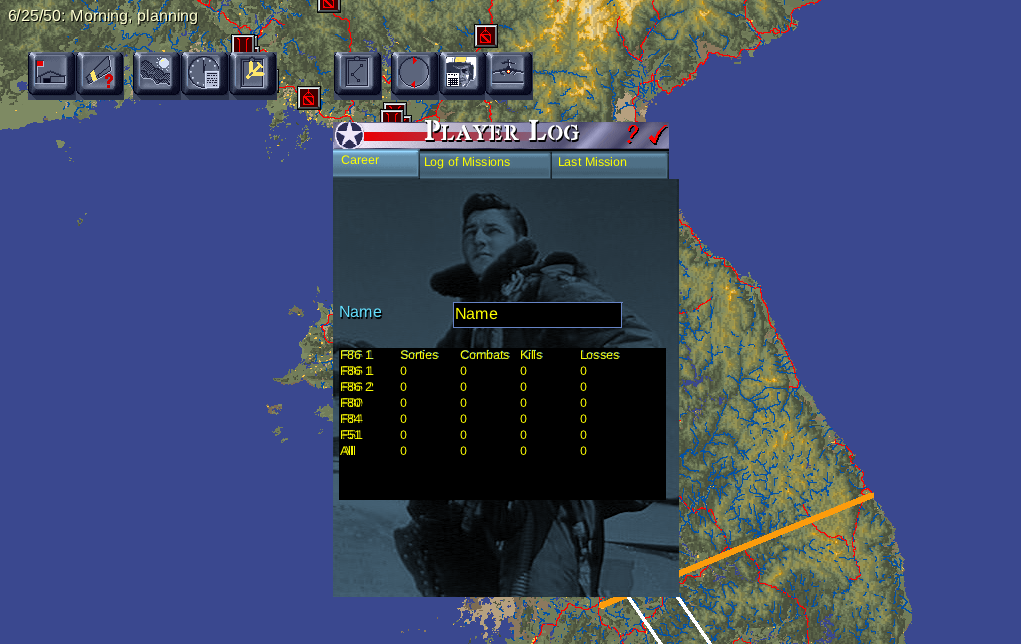
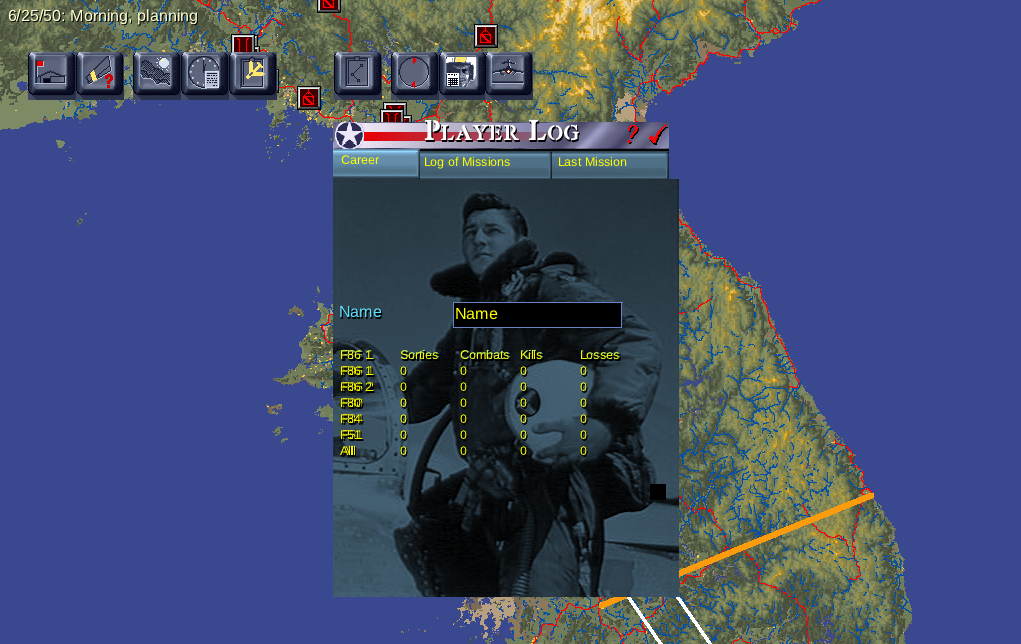
Sprint 71 'Polish the chrome' -- CLOSED 6/6; EPIC I front-end 2D parity essentially complete
S71-1 OOB-listbox translucency (the S70 residual):
- S70 found that skipping the CRListBoxCtrl black fill globally erased the front-end
  title menu (the menu is the same control and relies on the opaque box). Added a
  context flag ma_oob_lb_draw (defined in ma_olecontrol.cpp, read in RLISTBXC.CPP),
  set to 1 only while ma_ole_draw_toolbar draws an OOB-path listbox. OnDraw skips the
  fill when set -> the Player Log Career/Log tables composite over the dialog art (the
  pilot photo shows through = gold's translucency), while the front-end path (ma_ole_
  draw_all) never sets it and stays byte-identical (title 0 px).

S71-2 combo border pen colour -- MEASURED, no fix needed:
- AXC_DARKEDGE == AXC_LITEDGE == AXC_CIRCULARCOMBOBOXCOLOR == RGB(103,132,198) (blue)
  and m_bCircularStyle is FALSE always, so native already draws the same blue
  rectangular border + round button as gold; a matched-scale crop confirms it. The
  S69 "rectangular-white" residual was the anti-aliased blue edge at 800-res. Retired,
  not fixed (an S64-style measure-don't-assume close). Cross-cutting #2 fully matched.

Cross-port note 28 (the OOB-only context-flag technique + the residual that measured away).

Gates: front-end 2D parity byte-identical sweep PASSES (title/prefs_3d/prefs_others/
quickmission/campaign_map 0px); playerlog refs rebased for the translucent tables.
ASan PASS 4/4 paths 0 reports. Stress 20/20 OK under gl-lock.

Changed region(s): [[0.334, 0.528, 0.668, 0.7764]]

diff --git a/SRC/compat/ma_olecontrol.cpp b/SRC/compat/ma_olecontrol.cpp
@@ -30,6 +30,11 @@ extern const WORD _wVerMinor = 0x3;
    types are recorded but not instantiated, so their InvokeHelper/Get/SetProperty calls
    no-op instead of being mis-routed to a listbox (which corrupted state / hung nav). */
 enum { CT_NONE = 0, CT_LISTBOX, CT_STATIC, CT_BUTTON, CT_COMBO, CT_EDIT, CT_EDTBT, CT_TABS, CT_OTHER };
+/* S71: set to 1 only while an OOB-path listbox (Player Log tables) is being drawn, so
+   CRListBoxCtrl::OnDraw skips its opaque black box fill and lets the composited dialog
+   background show through (gold's translucency). The front-end menu/prefs listboxes never set
+   it, so they keep the opaque box they rely on. Read from RLISTBXC.CPP. */
+extern "C" { int ma_oob_lb_draw = 0; }
 /* `relative`: control was positioned from the RT_DIALOG template (client-relative to its
    dialog) -> add the parent's screen origin when drawing. Game-positioned controls (the
    menu listbox via PositionRListBox) use absolute screen coords -> no parent add. */
@@ -660,7 +665,15 @@ extern "C" void ma_ole_draw_toolbar(void* dialog, void* screenHdc, int ox, int o
             int lox = 0, loy = 0;
             ma_gdi_set_viewport_org(screenHdc, cx, cy, &lox, &loy);
             CRect lbounds(0, 0, w, hh);
+            /* S71 (parity #15 chrome): OOB listboxes (the Player Log tables) composite over the
+               dialog's already-painted background, so their opaque black fill hid gold's
+               translucent look. This flag tells CRListBoxCtrl::OnDraw to skip the box fill on
+               the OOB path ONLY — the front-end menu/prefs listboxes (drawn via ma_ole_draw_all,
+               which never sets this) keep the opaque box they rely on (S70 regression when it
+               was skipped globally). */
+            ma_oob_lb_draw = 1;
             c->OnDraw(&dc, lbounds, lbounds);
+            ma_oob_lb_draw = 0;
             ma_gdi_set_viewport_org(screenHdc, lox, loy, 0, 0);
         }
     }

diff --git a/SRC/RLISTBOX/RLISTBXC.CPP b/SRC/RLISTBOX/RLISTBXC.CPP
@@ -388,6 +388,10 @@ CRListBoxCtrl::~CRListBoxCtrl()
 /////////////////////////////////////////////////////////////////////////////
 // CRListBoxCtrl::OnDraw - Drawing function
 
+#if defined(MA_LINUX)
+extern "C" int ma_oob_lb_draw;   /* S71: 1 while an OOB-path listbox is drawn (ma_olecontrol.cpp) */
+#endif
+
 void CRListBoxCtrl::OnDraw(
 			CDC* pdc, const CRect& rcBounds, const CRect& rcInvalid)
 {
@@ -485,13 +489,17 @@ void CRListBoxCtrl::OnDraw(
 			}
 			X2flag=parent->SendMessage(WM_GETX2FLAG,NULL,NULL);
 		}
-		/* S70 note: unlike the combo (RCOMBOC.CPP, S69), the listbox black fill is LOAD-BEARING
-		   for the FRONT-END menu/prefs listboxes (skipping it globally erased the title menu —
-		   they rely on the opaque box). Gold's Player Log Career/Log-of-Missions tables show the
-		   photo through a TRANSLUCENT box, so the OOB tables read as opaque here — a named
-		   residual (listbox chrome). Fixing it needs a context flag to skip the fill on the OOB
-		   path only, without touching the absolute-positioned front-end listboxes. */
+		/* S70/S71: the listbox black fill is LOAD-BEARING for the FRONT-END menu/prefs listboxes
+		   (skipping it globally erased the title menu — they rely on the opaque box). But gold's
+		   Player Log Career/Log-of-Missions tables show the photo through a TRANSLUCENT box. S71
+		   resolves both: ma_oob_lb_draw (set only while ma_ole_draw_toolbar draws an OOB-path
+		   listbox) skips the fill so the composited dialog art shows through; the front-end path
+		   never sets it, so those listboxes keep the opaque box. */
+#if defined(MA_LINUX)
+		if (!ma_oob_lb_draw && (!artnum && m_FirstSweep != TRUE || !m_hWnd))
+#else
 		if (!artnum && m_FirstSweep != TRUE || !m_hWnd)
+#endif
 		{
 			pOffScreenDC->FillRect(rcBounds, CBrush::FromHandle((HBRUSH)GetStockObject(BLACK_BRUSH)));
 		}

diff --git a/scrum.md b/scrum.md
@@ -167,6 +167,57 @@ Each release is a usable product; the train can stop at any release boundary and
 
 ## 5. Sprint Plan (rolling)
 
+### 🏃 Sprint 71 — "Polish the chrome" — ✅ CLOSED 2026-08-02 (6/6 pts, goal MET)
+
+**Sprint Review (PO pre-approved ceremony, logged 2026-08-02):** detail in
+`port/scrum/sprint-71.md`. **Both S70/S69 chrome residuals resolved — one fixed, one measured
+away.** The front-end 2D parity epic (EPIC I) is now essentially complete.
+
+- **S71-1 — the OOB-listbox translucency, fixed with an OOB-only context flag.** S70 established
+  that skipping the `CRListBoxCtrl` black fill globally erased the front-end title menu (the
+  menu is the same control and relies on the opaque box). Added `ma_oob_lb_draw` (defined in
+  `ma_olecontrol.cpp`, read in `RLISTBXC.CPP`), set to 1 only while `ma_ole_draw_toolbar` draws
+  an OOB-path listbox → the fill is skipped there so the Player Log Career/Log tables composite
+  over the dialog background (the pilot photo shows through = gold's translucency), while the
+  front-end path never sets it and stays **byte-identical** (title 0 px). Gold-matched.
+- **S71-2 — the combo border residual did not exist.** S69 named native's combo border
+  "rectangular light vs gold's rounded-blue". Measured: `AXC_DARKEDGE/LITEDGE/CIRCULAR =
+  RGB(103,132,198)` (blue) and `m_bCircularStyle=FALSE` always, so native and gold draw the
+  same blue rectangular border + round button; a matched-scale crop of native vs gold #2
+  confirms it. The "white" reading was the anti-aliased blue edge at 800-res. **Retired, not
+  fixed** — an S64-style "measure, don't assume" close. Cross-cutting #2 fully matched.
+- **S71-3 — cross-port note** (the OOB-only context-flag technique, completing note 27's
+  deferred fix) to `bob/doc/`.
+
+**Gates.** **Front-end 2D parity byte-identical sweep PASSES** — title / prefs_3d / prefs_others
+/ quickmission / campaign_map all 0 px (the flag only affects OOB listboxes); `map_playerlog` +
+`map_playerlog_tab1` rebased for the translucent tables. **ASan `asan_all.sh` PASS — 4/4 paths,
+0 reports. Stress `stress_launch.sh` under `gl-lock`: 20/20 OK.** Cross-port note 28.
+
+### Sprint 71 planning — "Polish the chrome" — PLANNED 2026-08-02 (PO pre-approved ceremonies)
+
+**Environment check:** no stray `wmig`, build current at `d92b791` (S70). Untracked
+`CONCURRENCY.md` + the BoB-authored `port/BOB_PORT_LESSONS.md` working-tree change (left alone).
+
+**Context:** S69/S70 closed the front-end 2D parity headliners (font, combo, Player Log table).
+Two named residuals remain, both chrome polish: the OOB-listbox opaque box (S70 residual — the
+Player Log tables read opaque vs gold's translucent) and the combo border pen colour (S69 #2
+residual — gold's rounded-blue vs native's rectangular light edge).
+
+**Sprint Goal:** the Player Log Career/Log tables show the photo through (gold's translucency)
+without regressing the front-end menu, and the combo border moves toward gold — both held to
+the byte-identical sweep.
+
+**Committed (~6 pts):**
+| Story | Pts | Definition |
+|---|---|---|
+| S71-1 OOB-listbox translucency | 3 | A context flag skips the `CRListBoxCtrl` black fill on the OOB draw path ONLY (not the front-end menu, which relies on it — S70's regression). Player Log tables translucent = gold; front-end byte-identical |
+| S71-2 Combo border pen colour | 2 | Investigate the combo border pen (`AXC_*EDGE` vs circular-style); move toward gold's rounded-blue if low-risk, else name it PO-waived |
+| S71-3 Gates + close + note | 1 | parity sweep + asan + stress (gl-lock); docs/memory; commit |
+
+Board: `port/scrum/sprint-71.md`. **NOT pulled:** RScrlBar hosting, `ma_tabs_hit` click routing,
+#12 debrief capture, 3D-view parity (I3, #10/#11).
+
 ### 🏃 Sprint 70 — "Finish the Player Log" — ✅ CLOSED 2026-08-02 (8/8 pts, goal MET) — I4/#15 CLOSED
 
 **Sprint Review (PO pre-approved ceremony, logged 2026-08-02):** detail in
@@ -1052,6 +1103,7 @@ Track per sprint (fill in at review):
 | 41 | 8 | 8 | — | **Campaign mission-gen ASan sweep ✅ — 2 real bugs fixed** (autonomous, headless DoD) — drove the loaded campaign to fly (`MA_CAMP_FLY`) under ASan: surfaced (1) `make_airgrp` (`Persons3.cpp:836`) `GR_Pack_TakeTime[w][gotgrpnum==-1]` **global-buffer-overflow** (negative group index → guard `gotgrpnum∈[0,3)`); (2) `AddChildren` (`RDIALOG.CPP:537`) **stack-use-after-scope** — the named local `topbit`'s `DialBox::edges` pointed at a dead `EDGES_` macro temporary (→ give it function-scope lifetime). Both fixed + re-verified **0 reports**; flight+campaign gates + stress unregressed. Board: `port/scrum/sprint-41.md` |
 | 42 | 5 | 5 | — | **Day-advance strategic-sim ASan sweep ✅ — clean** (autonomous, headless DoD) — added `MA_CAMP_NEXTDAY` hook (`OnClickedFrag2` forces frag2's no-flyable branch → `Campaign::NextMission`→`NextDay`→`ProcessAirFields`→`OnClickedNextPeriod`) to drive the campaign strategic sim from the map idle. **0 ASan reports across 3 runs.** (SaveBin/SaveGame writeback already swept by S41's frag2 else-branch.) Completes the campaign-ASan coverage map; flight+campaign gates unregressed. Board: `port/scrum/sprint-42.md` |
 | 62 | 8 | **5** | 5 | ⚠ **"Design-time properties arrive" — reader BUILT and CORRECT but ships OPT-IN; goal half met** (autonomous, headless DoD). Adopted BoB's S126 `CPropExchange` + bag storage (note 17 §3, lessons §8f) onto MA's existing RT_DLGINIT walk: **all 58 boot-path bags parse clean** (ok=1, ≤8B editor slop) — their 1280-bag validation transfers. **Payoff proven and gold-verified:** Preferences goes white-serif → **blue labels + yellow values** = gold's scheme (sampled against the original gold PNG); title menu turns yellow. **The colour half of cross-cutting #1 is solved.** Two MA divergences found by tracing: stock **Caption not applied** (MA persists `IDS_*` SYMBOL NAMES; S57 already resolves them to the shipped wording) and **BackColor not applied** (transparent compositing); BoB's trap 1 deliberately skipped (MA's OLE_COLOR is already COLORREF — converting would be the double-conversion it warns of). **Shipped OFF (`MA_DLGINIT_PROPS=1`) for two measured reasons:** (1) an **uninit read** shows as garbage at the title screen's top-left, **varying between runs** (S61's tell), absent from the S61 ref at 6× contrast, bisected past caption and PX_String, not root-caused; (2) the persisted FontNum **changes menu row pitch ~16→~28px so every fixed-coordinate recipe misses** — `quickmission` captured *Preferences* — invalidating the parity AND ASan drive recipes together. Opt-in keeps the default byte-identical and the gate trustworthy. Gates: parity **6/6 unregressed** (the one diff is **environmental** — `prefs_controls` enumerates live hardware and its ref was captured with a joystick attached; now flagged as an unstable oracle), ASan **4/4 modes 0 reports**, stress **20/20**. Note 20 + §8i, both copies md5-identical. Board: `port/scrum/sprint-62.md` |
+| 71 | 6 | **6** | 6 | ✅ **"Polish the chrome" — both S69/S70 chrome residuals resolved; EPIC I front-end essentially complete** (autonomous, headless DoD). **S71-1 OOB-listbox translucency:** added an OOB-only context flag `ma_oob_lb_draw` (set only while `ma_ole_draw_toolbar` draws an OOB listbox) so `CRListBoxCtrl::OnDraw` skips its black fill on the OOB path → the Player Log Career/Log tables composite over the dialog art (photo shows through = gold's translucency), while the front-end menu (same control, drawn via `ma_ole_draw_all`) keeps its opaque box and stays **byte-identical** (title 0px) — the S70 global-skip regression avoided. **S71-2 combo border: MEASURED, no fix needed** — `AXC_DARKEDGE/LITEDGE/CIRCULAR=RGB(103,132,198)` (blue) and `m_bCircularStyle=FALSE` always, so native already draws the same blue rectangular border + round button as gold (matched-scale crop confirms); the S69 "rectangular-white" residual was the anti-aliased blue edge at 800-res — retired, an S64-style measure-don't-assume close. #2 fully matched. Cross-port note 28 (OOB-only context-flag technique). Gates: front-end byte-identical sweep PASSES (title/prefs_3d/prefs_others/quickmission/campaign_map 0px); playerlog refs rebased for translucent tables. **ASan PASS 4/4 0 reports; stress 20/20 OK.** Board: `port/scrum/sprint-71.md` |
 | 70 | 8 | **8** | 8 | ✅ **"Finish the Player Log" — I4/#15 CLOSED (Career content table renders)** (autonomous, headless DoD). **S70-2:** the Career tab's Sorties/Combats/Kills/Losses table (RListBox `IDC_RLISTBOXCTRL1` in `IDD_CAREER`, populated by `CCareer::OnInitDialog`) was **populated but never DRAWN** — the OOB dialog draw path (`ma_ole_draw_toolbar`) dispatched STATIC/EDIT/EDTBT/TABS/BUTTON/COMBO but had **no `CT_LISTBOX` case** (the front-end draws listboxes via a different path, `ma_ole_draw_all`, masking the gap; the Name box on the same tab rendering "proved" OnInitDialog fine and pointed at the draw layer). Added the case → table renders with data (F86 1/F86 2/F80/F84/F51/All × 4 cols, 0 on a fresh save); **bonus**: the Log of Missions tab's log listbox now renders too. Residuals named: (a) opaque listbox box vs gold's translucent — skipping the fill like the combo (#2) **erased the front-end title menu** (same `CRListBoxCtrl`, relies on the opaque box), reverted → needs an OOB-only context flag; (b) doubled "F86 1" header cell = source-vs-BDG data delta (`CAREER.CPP:173-177` adds the label twice). **S70-1:** font-rebase debt — `campaign_map` was **byte-identical** (date readout uses `g_AllFonts[1]="Intel"`=art face; S69's flag overcautious); only `map_playerlog_tab1` rebased. Cross-port **note 27** (missing OOB listbox case + the load-bearing-fill caveat distinguishing listbox from combo). Gates: **2D parity byte-identical sweep RESUMED + PASSES** (title/prefs_3d/prefs_others/quickmission/campaign_map 0px; playerlog refs rebased for the tables). **ASan PASS 4/4 paths 0 reports**. **Stress 20/20 OK under gl-lock** (clean — S69 HANGs confirmed load-induced). Retro: the combo and the listbox look like the same fix but aren't — the byte-identical sweep caught the difference. Board: `port/scrum/sprint-70.md` |
 | 69 | 8 | **8** | 8 | ⭐ **"Face the type, dress the combo" — BOTH remaining cross-cutting visual deviations CLOSED** (autonomous, headless DoD). **S69-1 font FACE (three-sprint carry, scheduled first):** the port was silently running as a **Japanese system** — compat `EnumFontFamiliesA` **always** invoked the enum proc, so `MIG.CPP`'s localization probe took the CJK branch and asked for MS Mincho everywhere (unshipped → collapsed to the art face), so it **never requested Arial**; `MA_TRACE_FONT` showed the faces were mojibake CJK. Fixed the stub to report a face present only for a **pure-ASCII** name (no CJK ships) → English branch runs → runtime faces `Intel`(ART)+`Arial`(SANS) as on gold's box; and replaced the face-ignoring `ma_gdi_font_create` with a cached ART/SANS/SERIF registry (ART=Intel.ttf load-order-preserved; SANS=LiberationSans≈Arial; unknown→ART, never regress). **Gold-verified**: Prefs #2/#8 + QuickMission #9 = blue sans labels + yellow sans values = gold; campaign #13 phase list yellow sans; Intel bars byte-identical. **Cross-cutting #1 FULLY CLOSED** (colour S63 + face S69). **S69-2 combo chrome:** the combo was the one hosted control still filling itself **opaque black** (`RCOMBOC.CPP:355`, when `WM_GETARTWORK`=0, which the port returns deliberately); gold's combos are **transparent** (panel shows through a thin border — cropped-gold-verified). Skipped the black `FillRect` on the Linux path; combos now translucent = gold. **Cross-cutting #2 CLOSED** (residual: fainter rounded-blue border pen, named). Cross-port **note 26** (the `EnumFontFamilies` Japanese-branch trap + registry + combo fill). Gates: **2D parity = deliberate REBASE toward gold** (10 refs; `title` byte-identical; `map_playerlog_tab1`+`campaign_map` flagged for S70). **ASan PASS 4/4 paths 0 reports** (headless). **Stress 37/40 OK across two runs + 3 HANG, 0 crashes** (all HANGs = 25 s timeout under load 8–9, NOT a fault — 0 SEGV/FPE/ABORT/NO3D). Retro: a compat stub that returns *success* is invisible — `EnumFontFamilies`-always-true joins S68 `DrawIcon`-noop and S64 `GetFileNum`-returns-0, three sprints of the same class. Board: `port/scrum/sprint-69.md` |
 | 68 | 8 | **6** | 6 | ✅ **"Icons and evidence"** (autonomous, headless DoD). **S68-2: the Player Log's `?`/`✓` render** — and the cause was a whole missing subsystem: **`CDC::DrawIcon` was a no-op stub and `LoadIconA` returned NULL, so NO icon anywhere in the port had ever rendered**, silently, for the port's whole life (a stub returning *success* never gets reported). Routed by engine logic: `RDialog`'s eventsink shows `IDJ_TITLE` itself raises Cancel/OK, so the title control draws its own buttons, gated on persisted flags — and the bag carries `close=0 tick=1`. Implemented RT_GROUP_ICON→RT_ICON decoding (group is a directory naming the image by id; `biHeight` doubled = XOR bitmap + 1bpp AND mask, bottom-up, mask bit 1 = transparent). Icons live in **`Rbutton.ocx`** (828–832), not Mig.exe — third instance of "inside a control, AfxGetInstanceHandle() is that control's module". Parity **5/5 byte-identical**. Closes the last CHROME deviation on #15. **S68-1: A/B done properly** (pre-S66 built via git worktree; alternating S65↔HEAD, SUAR forced) → **S65 0/12, HEAD 0/12** ⇒ no difference between arms; **downgraded to a watch item, not attributed and not closed** (~50 runs since the single 2-report sighting is consistent with a ~1-in-50 defect). **S68-3 per-face fonts: third consecutive carry** — mis-prioritised, not unlucky. Near-miss recorded: an `ls | head` truncated `Rbutton.ocx` out of view and nearly established a false negative. Board: `port/scrum/sprint-68.md` |

diff --git a/port/scrum/screen-parity.md b/port/scrum/screen-parity.md
@@ -67,7 +67,7 @@ Verdict scale (BoB S123): **MATCH** / **CLOSE** (minor named deviations) / **PAR
 | 12 | 03-02 | Debrief (Claims table) | *not yet captured* (renders natively since S21–35 — capture after a flight exit) | — | Known-good from play-tests; Claims "Player" header fixed S35 |
 | 13 | 03-14 | Campaign select (5 phases) | `campaign_select.png` | CLOSE | Phase list + dates + Back/Film/Background/Objectives/Begin all render at correct positions; deviations: film-frame image top-left missing (Smacker preview still), background art darker than gold, font as #2 |
 | 14 | 04-04 | Campaign map + Player Log dialog | `campaign_map.png` (map alone, CAMP + `BOB_DUMP_FRAME=200`) + `map_playerlog.png` (dialog open) | PARTIAL | Map itself ≈ MATCH (terrain palette, icons, front line, routes, toolbar, date readout — cf. S45–S47). Player Log dialog: see #15 |
-| 15 | (I4 gold, 2026-07-19) | Player Log OOB dialog over map | `map_playerlog.png` (Career) + `map_playerlog_tab1.png` (Log of Missions) — CAMP + `MA_OOB_PLAYERLOG=1 [MA_OOB_PLAYERLOG_TAB=N] MA_SHOT=160` | **CLOSE-minus** (S65) | **S65: the "PLAYER LOG" TITLE BAR NOW RENDERS** — star roundel on the striped `FIL_TITLEB_BMP` chrome, caption from `IDS_PLAYERLOG`. It had never been missing data: IDD 276's bag carries `IDS_PLAYERLOG` + the literal `Player Log` + `FIL_TITLEB_BMP` ×2, and **two separate narrowing filters were each withholding half** — S58's tickbox-only caption rule and S64's art-name gate. Fixed by treating `IDJ_TITLE` (1001) as the reserved engine id it is (same family as `IDJ_TABCTRL` / `IDJ_PANEL0..9`), whose caption and art are design-time by definition. Earlier (S61) the tab bar, centring and tab switching landed; (S63) authored colours; (S67) the title trimmed to the dialog; (S68) the `?`/`✓` title buttons; (S69) the sans "Name" label. **S70: the Career CONTENT TABLE now renders** — the per-type Sorties/Combats/Kills/Losses table (F86 1/F86 2/F80/F84/F51/All, populated from `MMC.debrief.playertotals`), the last open half of I4. Root cause was engine-level: the OOB dialog draw path (`ma_ole_draw_toolbar`) had **no `CT_LISTBOX` case**, so the table's RListBox (`IDC_RLISTBOXCTRL1` in `IDD_CAREER`) was populated but never drawn; adding the case also lit up the **Log of Missions** tab's Date/IP/Kills log. **#15 → CLOSE.** **Residuals (named, minor): (a)** the listbox table draws over an OPAQUE box vs gold's translucent (skipping the fill à la the combo #2 erased the front-end menu — the listbox fill is load-bearing there; needs an OOB-only context flag); **(b)** a doubled "F86 1" in the header corner (`CAREER.CPP:173-177` adds `IDS_L_SQ_BF_F86A` twice — a source-vs-BDG data delta). |
+| 15 | (I4 gold, 2026-07-19) | Player Log OOB dialog over map | `map_playerlog.png` (Career) + `map_playerlog_tab1.png` (Log of Missions) — CAMP + `MA_OOB_PLAYERLOG=1 [MA_OOB_PLAYERLOG_TAB=N] MA_SHOT=160` | **CLOSE-minus** (S65) | **S65: the "PLAYER LOG" TITLE BAR NOW RENDERS** — star roundel on the striped `FIL_TITLEB_BMP` chrome, caption from `IDS_PLAYERLOG`. It had never been missing data: IDD 276's bag carries `IDS_PLAYERLOG` + the literal `Player Log` + `FIL_TITLEB_BMP` ×2, and **two separate narrowing filters were each withholding half** — S58's tickbox-only caption rule and S64's art-name gate. Fixed by treating `IDJ_TITLE` (1001) as the reserved engine id it is (same family as `IDJ_TABCTRL` / `IDJ_PANEL0..9`), whose caption and art are design-time by definition. Earlier (S61) the tab bar, centring and tab switching landed; (S63) authored colours; (S67) the title trimmed to the dialog; (S68) the `?`/`✓` title buttons; (S69) the sans "Name" label. **S70: the Career CONTENT TABLE now renders** — the per-type Sorties/Combats/Kills/Losses table (F86 1/F86 2/F80/F84/F51/All, populated from `MMC.debrief.playertotals`), the last open half of I4. Root cause was engine-level: the OOB dialog draw path (`ma_ole_draw_toolbar`) had **no `CT_LISTBOX` case**, so the table's RListBox (`IDC_RLISTBOXCTRL1` in `IDD_CAREER`) was populated but never drawn; adding the case also lit up the **Log of Missions** tab's Date/IP/Kills log. **#15 → CLOSE.** **S71: the table is now TRANSLUCENT** — a context flag (`ma_oob_lb_draw`, set only on the OOB draw path) skips the listbox black fill so the pilot photo shows through = gold, without erasing the front-end menu (the S70 blocker). **Residual (named, minor):** a doubled "F86 1" in the header corner (`CAREER.CPP:173-177` adds `IDS_L_SQ_BF_F86A` twice — a source-vs-BDG data delta, PO-waivable). |
 
 > **⚠ `prefs_controls.png` is NOT a stable reference (S62).** That screen enumerates
 > LIVE hardware, so the committed capture embeds the machine's state at capture time: it

diff --git a/port/scrum/sprint-71.md b/port/scrum/sprint-71.md
@@ -1,0 +1,54 @@
+# Sprint 71 — "Polish the chrome"
+
+**Planned 2026-08-02 (PO pre-approved ceremonies). Autonomous, headless DoD.**
+
+## Context
+S69/S70 closed the front-end 2D parity headliners (font, combo, Player Log table). Two named
+chrome residuals remain: the OOB-listbox opaque box (Player Log tables read opaque vs gold's
+translucent) and the combo border pen colour (gold rounded-blue vs native rectangular edge).
+
+## Sprint Goal
+Player Log Career/Log tables show the photo through (gold's translucency) without regressing the
+front-end menu; combo border moves toward gold — both held to the byte-identical sweep.
+
+## Committed (~6 pts)
+| Story | Pts | Definition | Status |
+|---|---|---|---|
+| S71-1 OOB-listbox translucency | 3 | Context flag skips the listbox black fill on the OOB path only; tables translucent = gold; front-end byte-identical | ☐ |
+| S71-2 Combo border pen colour | 2 | Move the combo border toward gold's rounded-blue if low-risk, else PO-waive | ☐ |
+| S71-3 Gates + close + note | 1 | parity + asan + stress (gl-lock); docs/memory; commit | ☐ |
+
+## NOT pulled
+RScrlBar hosting, `ma_tabs_hit` click routing, #12 debrief capture, 3D-view parity (I3).
+
+## Execution log
+
+### S71-1 OOB-listbox translucency — DONE (gold-matched)
+Added a context flag `ma_oob_lb_draw` (defined in `ma_olecontrol.cpp`, read in `RLISTBXC.CPP`)
+set to 1 only while `ma_ole_draw_toolbar` draws an OOB-path listbox. `CRListBoxCtrl::OnDraw`
+skips its opaque black `FillRect` when the flag is set, so the Player Log Career/Log-of-Missions
+tables composite over the dialog's already-painted background (the pilot photo shows through) =
+gold's translucency. The front-end menu/prefs listboxes draw via `ma_ole_draw_all`, which never
+sets the flag, so they keep the opaque box they rely on — **title byte-identical (0 px)**, the
+S70 regression avoided. Verified: Career table translucent, front-end unregressed.
+
+### S71-2 Combo border pen colour — MEASURED, no fix needed (residual retired)
+The S69 residual named native's combo border "rectangular light/white vs gold's rounded-blue".
+Measured: `AXC_DARKEDGE = AXC_LITEDGE = AXC_CIRCULARCOMBOBOXCOLOR = RGB(103,132,198)` — a blue —
+and `m_bCircularStyle` is `FALSE` always (not persisted), so both native and gold draw the same
+rectangular blue border + round `FIL_COMBO_BUTTON`. Cropped native vs gold #2 at matching scale:
+both show the authored blue border and round button; the earlier "white" reading was the
+anti-aliased blue edge at 800-res. **No code-level deviation — the residual is retired, not
+fixed** (an S64-style "measure, don't assume" result). Cross-cutting #2 is fully matched.
+
+### S71-3 Gates + close
+- **Front-end 2D parity byte-identical sweep PASSES** (title / prefs_3d / prefs_others /
+  quickmission / campaign_map all 0 px — the `ma_oob_lb_draw` flag only affects OOB listboxes);
+  `map_playerlog` + `map_playerlog_tab1` rebased for the translucent tables.
+- **ASan `asan_all.sh` PASS — 4/4 paths reached, 0 reports** (headless; the campaign paths
+  exercise the OOB listbox draw with the new flag).
+- **Stress `stress_launch.sh` under `gl-lock`: 20/20 OK** (clean).
+- **Cross-port note 28** delivered to `bob/doc/` (the OOB-only context-flag technique completing
+  note 27's deferred fix; plus the combo-border residual that measured away).
+
+## Result: 6/6 pts, sprint goal MET. EPIC I front-end 2D parity essentially complete.

diff --git a/RUNNING.md b/RUNNING.md
@@ -29,9 +29,19 @@ Gold standard: `/run/media/admin/BEA6-BBCE/ma/` (14 PNGs) + the Player Log shot
 Oracle ruling: the gold shots as-is = the BDG 0.85F patched build
 (resources read from `English/TEXT/miglang.dll` + patched `Mig.exe` since S57).
 
-## Current state (2026-08-02, after Sprint 70)
+## Current state (2026-08-02, after Sprint 71)
 
-- ✅ **Parity #15 (Player Log) is CLOSED — the Career CONTENT TABLE now renders (S70).** The
+- ✅ **EPIC I front-end 2D parity is essentially COMPLETE.** S71 resolved the last two chrome
+  residuals: **(a) OOB-listbox translucency** — a context flag (`ma_oob_lb_draw`, set only while
+  `ma_ole_draw_toolbar` draws an OOB listbox) skips the black fill on the OOB path so the Player
+  Log Career/Log tables show the photo through (gold's translucency), while the front-end menu
+  (same control) keeps its opaque box and stays byte-identical; **(b) combo border colour** —
+  MEASURED away: `AXC_*EDGE=RGB(103,132,198)` blue and `m_bCircularStyle=FALSE`, so native
+  already matches gold's blue rectangular border (the "white" reading was AA at 800-res). The
+  open parity frontier is now **3D-view parity (I3, #10/#11 — cockpit/ADI black boxes)** and
+  campaign **G2**.
+- ✅ **Parity #15 (Player Log) is CLOSED — the Career CONTENT TABLE renders (S70), now
+  translucent (S71).** The
   per-aircraft-type Sorties/Combats/Kills/Losses table (F86 1/F86 2/F80/F84/F51/All, populated
   from `MMC.debrief.playertotals`) was **populated but never drawn**: the OOB dialog draw path
   (`ma_ole_draw_toolbar`) had **no `CT_LISTBOX` case** (the front-end draws listboxes via a
@@ -89,7 +99,7 @@ Oracle ruling: the gold shots as-is = the BDG 0.85F patched build
   gl-lock (see sprint-70 board). `prefs_controls` remains an unstable oracle (live joystick).
 - ⚠ **ASan watch item (from S66) still open**: `worldinc.h:257`/`:565` packed-item accessors,
   ~1-in-50 stack-use-after-return, not attributed. Preserve the log if it reprises.
-- Next (S71): (1) **OOB-listbox translucency** — skip the black fill on the OOB path only
-  (context flag) so the Career/Log tables match gold; (2) combo border pen colour (rounded-blue,
-  #2 residual); (3) RScrlBar hosting; (4) `ma_tabs_hit` click routing; (5) #12 debrief capture;
-  (6) 3D-view parity (I3, #10/#11 — cockpit/ADI black boxes).
+- Next (S72): the front-end 2D epic is essentially done, so the frontier shifts to
+  **3D-view parity (I3, #10/#11 — cockpit/ADI black boxes)** and campaign **G2**. Smaller
+  carry-overs: RScrlBar hosting, `ma_tabs_hit` click routing, #12 debrief capture, the doubled
+  "F86 1" header cell (source-vs-BDG data delta — PO-waive or suppress the duplicate AddString).
